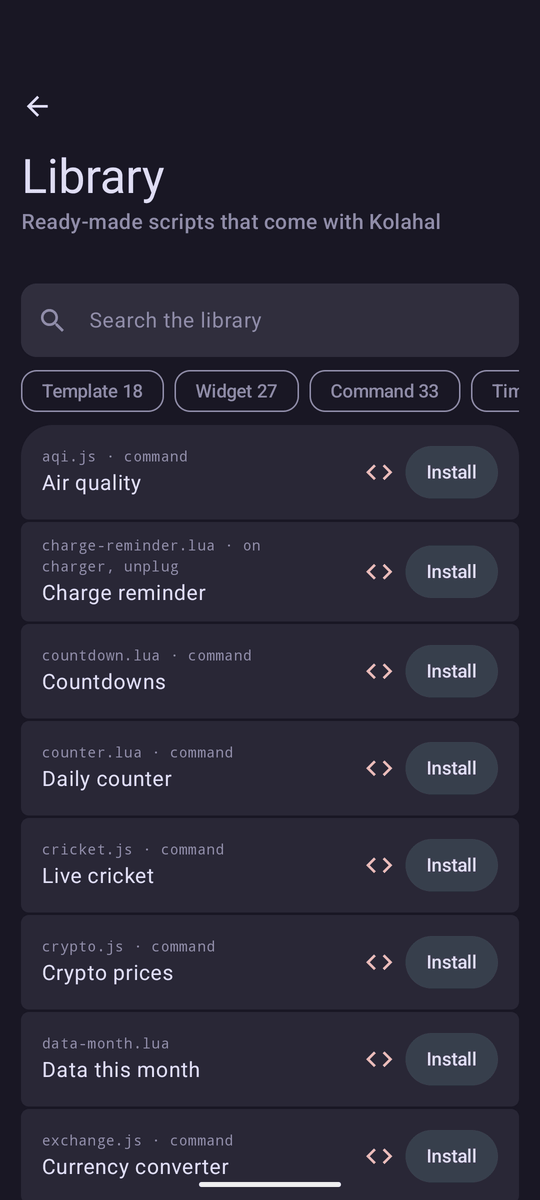
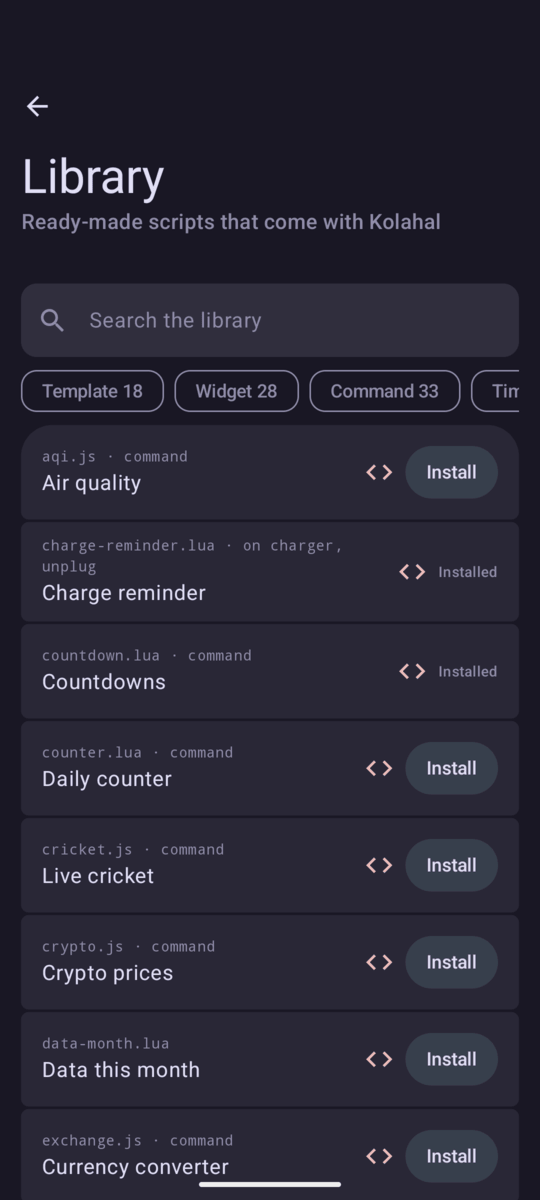
Guide: pictures taken again for the Shaders tab, and the capture script's steps for them
Settings, the Shaders list, the Scripts tab and the three access pictures show the four tabs; the setup checklist has its fourteenth row; the library and a script's sheet show today's counts and versions; the agenda's Now card and the Todos Next card are drawn as they are now. Alt texts, the marks on the Settings picture and the capture list follow.

The capture script's tap on the Scripts tab fell between two tabs once there were four. It gains steps for the library, one-offs in mid-play, a one-off over another app and the daily limits page.

diff --git a/site/src/gallery.ts b/site/src/gallery.ts
@@ -32,7 +32,7 @@ export const PICTURES: Picture[] = [
 	{ section: 'home', file: 'parts/typing.png', caption: 'While you type', alt: 'Typing ma at the prompt: the header, the log, the suggestion list with Maps highlighted at the bottom, the prompt and the key bar', href: '/getting-started/parts/#while-you-type' },
 	{ section: 'home', file: 'parts/action-sheet.png', caption: 'A line’s action sheet', alt: 'The action sheet for a to-do line: the line, when it arrived, its actions and two delete actions in red', href: '/getting-started/parts/#action-sheet-and-quick-actions' },
 	{ section: 'home', file: 'parts/quick-actions.png', caption: 'Quick actions', alt: 'Quick actions: Settings, Notifications, Alarms and clock, Battery, Network, Unlocks this week, Apps, Widgets, Widgets page, Feeds, Scripts and Lock screen', href: '/getting-started/parts/#action-sheet-and-quick-actions' },
-	{ section: 'home', file: 'setup.png', caption: 'The setup checklist', alt: 'The setup checklist, 7 of 13 done: default home app, usage access, notifications, notification access and Do Not Disturb access done; double-tap to lock, system settings and contacts with Fix buttons', href: '/getting-started/setup/#the-setup-checklist' },
+	{ section: 'home', file: 'setup.png', caption: 'The setup checklist', alt: 'The setup checklist, 7 of 14 done: default home app, usage access, notifications, notification access and Do Not Disturb access done; double-tap to lock, system settings and contacts with Fix buttons', href: '/getting-started/setup/#the-setup-checklist' },
 
 	// The app selector
 	{ section: 'selector', file: 'shots/selector/slide.png', caption: 'At G on the edge', alt: 'The thumb on the right edge at G: the list of apps over the log, the apps at G magnified, and the G bubble beside the thumb', href: '/getting-started/basics/#app-selector' },
@@ -93,10 +93,10 @@ export const PICTURES: Picture[] = [
 	{ section: 'widgets', file: 'widgets/todos-2x2.png', caption: 'Todos', alt: 'The Todos card: three open todos, each with an empty checkbox, and +2 more', href: '/guides/widgets/#kolahals-own-widgets' },
 	{ section: 'widgets', file: 'widgets/reminders-2x2.png', caption: 'Reminders', alt: 'The Reminders card: 42 min to the next one, Call the bank, then Water plants on Wednesday and +1 more', href: '/guides/widgets/#kolahals-own-widgets' },
 	{ section: 'widgets', file: 'widgets/agenda-4x2.png', caption: 'Agenda', alt: 'The Agenda card: two events today and one all-day event tomorrow', href: '/guides/widgets/#kolahals-own-widgets' },
-	{ section: 'widgets', file: 'widgets/todos-next-4x2.png', caption: 'Todos, Next', alt: 'Todos in the Next look: Book the dentist large with a check to tap, a ring at 3/7, and the next todo as a row under it', href: '/guides/widgets/#looks' },
+	{ section: 'widgets', file: 'widgets/todos-next-4x2.png', caption: 'Todos, Next', alt: 'Todos in the Next look: Book the dentist large with a check to tap, a ring at 3/7, and the todos after it as rows under it', href: '/guides/widgets/#looks' },
 	{ section: 'widgets', file: 'widgets/reminders-next-2x2.png', caption: 'Reminders, Next', alt: 'Reminders in the Next look: in 42 min in a pill for Call the bank, then the later reminders as points on a line', href: '/guides/widgets/#looks' },
 	{ section: 'widgets', file: 'widgets/notes-stack-2x2.png', caption: 'Notes, Stack', alt: 'Notes in the Stack look: the newest note on a stack of sheets, 3 notes, and + for a new note', href: '/guides/widgets/#looks' },
-	{ section: 'widgets', file: 'widgets/now-kind-agenda-now-4x1.png', caption: 'Agenda, Now', alt: 'The agenda in the Now look: Team call now with a bar that fills as it goes, free 1h 30, and Lunch next', href: '/guides/widgets/#looks' },
+	{ section: 'widgets', file: 'widgets/now-kind-agenda-now-4x1.png', caption: 'Agenda, Now', alt: 'The agenda in the Now look: Team call now with a bar that fills as it goes, free 1 h 30 min, and Lunch next', href: '/guides/widgets/#looks' },
 	{ section: 'widgets', file: 'widgets/poster-kind-poster-clock-2x2.png', caption: 'Poster', alt: 'A clock in the Poster look: the hour and the minutes so large that the card crops them', href: '/guides/widgets/#looks' },
 	{ section: 'widgets', file: 'widgets/poster-kind-poster-stat-2x1.png', caption: 'Poster', alt: 'A number in the Poster look: 118 cropped by the card’s bottom edge, with AQI small in the corner', href: '/guides/widgets/#looks' },
 	{ section: 'widgets', file: 'widgets/shape-kind-dots-week-2x2.png', caption: 'A week as a flower', alt: 'The habit’s week in the Shape look: a flower with a leaf for each day done this week', href: '/guides/widgets/#looks' },
@@ -124,7 +124,7 @@ export const PICTURES: Picture[] = [
 	// Scripts and the editor
 	{ section: 'scripts', file: 'shots/access/cards.png', caption: 'The script manager', alt: 'The script manager: a card for each script, with its file name, how it runs, a Run button and a switch', href: '/getting-started/parts/#scripts-tab' },
 	{ section: 'scripts', file: 'shots/access/switches.png', caption: 'A script’s sheet', alt: 'The weather script’s sheet: run, options, edit and share buttons, then Access with a switch for the internet and one for Pinned at the top, its options and its timer', href: '/scripting/overview/#what-a-script-may-use' },
-	{ section: 'scripts', file: 'shots/access/library.png', caption: 'The library', alt: 'The library: a search box, chips for templates, widgets and commands, and each script with what it is, a code button and Install', href: '/scripting/library/' },
+	{ section: 'scripts', file: 'shots/access/library.png', caption: 'The library', alt: 'The library: a search box, chips for templates, widgets and commands, and each script with what it is, a code button and Install, or Installed for the ones you have', href: '/scripting/library/' },
 	{ section: 'scripts', file: 'shots/scripts/editor.png', caption: 'The editor', alt: 'The script editor on unlock-chart.lua: line numbers, colored Lua and the symbol bar', href: '/scripting/editor/' },
 	{ section: 'scripts', file: 'shots/scripts/weather.png', caption: 'A script as a command', alt: 'The weather script’s answer in the log: Tokyo, 16 °C and moderate rain, humidity, wind and UV', href: '/scripting/overview/#command-scripts' },
 	{ section: 'scripts', file: 'shots/scripts/forecast.png', caption: 'forecast lisbon', alt: 'The forecast script’s answer: three days in Lisbon, each with its low and its high', href: '/scripting/library/' },
@@ -156,7 +156,7 @@ export const PICTURES: Picture[] = [
 	{ section: 'scripts', file: 'widgets/example-sky-2x2.png', caption: 'The sky', alt: 'A 2×2 sky card in the Shape look: the sun on its arc, and the time of sunset', href: '/scripting/api/#kinds-and-their-fields' },
 
 	// Shaders: captures, then the scenes as the shader files draw them
-	{ section: 'shaders', file: 'shots/shaders/list.png', caption: 'Shaders', alt: 'Settings, Shaders, searched for screen time: Record, Candle and Hourglass, each with what it draws', href: '/scripting/shaders/#turning-a-shader-on' },
+	{ section: 'shaders', file: 'shots/shaders/list.png', caption: 'Shaders', alt: 'The Shaders tab, searched for screen time: Record, Candle and Hourglass, each with what it draws, and the Add shader button', href: '/scripting/shaders/#turning-a-shader-on' },
 	{ section: 'shaders', file: 'shots/shader-parameters/sliders.png', caption: 'A shader’s details', alt: 'The details of the mountains shader: its preview, what it draws, and a slider for the number of birds', href: '/scripting/shaders/#turning-a-shader-on' },
 	{ section: 'shaders', file: 'shots/shader-parameters/follow.png', caption: 'A parameter that follows a value', alt: 'The details of the candle shader: its parameter following screen time, today against a usual day', href: '/scripting/shaders/#values-to-follow' },
 	{ section: 'shaders', file: 'shots/shaders/lanterns.png', caption: 'shader lanterns', alt: 'Home over the lanterns scene, a lantern for each day’s unlocks over dark water', href: '/scripting/shaders/#turning-a-shader-on' },
@@ -172,9 +172,9 @@ export const PICTURES: Picture[] = [
 	{ section: 'shaders', file: 'scenes/candle.webp', caption: 'shader candle', alt: 'A lit candle in a brass dish on a dark table', href: '/scripting/shaders/#turning-a-shader-on' },
 
 	// Themes and settings
-	{ section: 'themes', file: 'shots/themes/settings.png', caption: 'Settings', alt: 'Settings: the Settings, Scripts and Feeds tabs, a search box, and the pages Look and feel, Shaders, Header, Widgets, Log, Suggestions, Keyboard and App selector', href: '/guides/themes-and-settings/#settings-screen' },
+	{ section: 'themes', file: 'shots/themes/settings.png', caption: 'Settings', alt: 'Settings: the Settings, Scripts, Shaders and Feeds tabs, a search box, and the pages Look and feel, Header, Widgets, Log, Suggestions, Keyboard, App selector and Launching and search', href: '/guides/themes-and-settings/#settings-screen' },
 	{ section: 'themes', file: 'shots/themes/theme-picker.png', caption: 'Choosing a theme', alt: 'Look and feel: the theme picker with a card for each theme, Always dark, and the fonts', href: '/guides/themes-and-settings/#themes' },
-	{ section: 'themes', file: 'parts/settings.png', caption: 'Settings', alt: 'The Settings screen: Settings, Scripts and Feeds tabs, a search box and the pages Look and feel, Shaders, Header, Widgets, Log, Suggestions, Keyboard and App selector', href: '/getting-started/parts/#settings' },
+	{ section: 'themes', file: 'parts/settings.png', caption: 'Settings', alt: 'The Settings screen: Settings, Scripts, Shaders and Feeds tabs, a search box and the pages Look and feel, Header, Widgets, Log, Suggestions, Keyboard, App selector and Launching and search', href: '/getting-started/parts/#settings' },
 
 	// Work profile and private space
 	{ section: 'profiles', file: 'shots/profiles/resume.png', caption: 'Opening an app of a paused profile', alt: 'A faded work app tapped while the work profile is paused, and Kolahal asking Resume work apps?', href: '/guides/profiles/#pausing-and-resuming' },

diff --git a/site/CAPTURES.md b/site/CAPTURES.md
@@ -42,6 +42,9 @@ were taken again on 25 November 2026, after the widgets' settings pages, pages a
 came in, with `ZONE=America/Argentina/Buenos_Aires` and the clocks in `Asia/Dhaka` (Lisbon then on
 the day before: "−1"). In Arrange widgets the script finds a button by what it says (`tap_ui`,
 through uiautomator): the Look row offers only the looks that change the card, so its buttons move.
+Settings (its four tabs since Shaders became one), the Scripts tab, the script manager, the library,
+the Shaders tab, weather.lua's sheet and the setup checklist were taken again on the evening of 25
+November 2026, in `Asia/Dhaka`.
 
 ## The hero's phone (home page)
 
@@ -83,7 +86,8 @@ through uiautomator): the Look row offers only the looks that change the card, s
 | `shots/scripts/editor.png` | the editor | (Play captures) | `editor-script` |
 | `shots/scripts/forecast.png` | `forecast lisbon` | `forecast` | `scripts-forecast` |
 | `shots/access/switches.png` | weather.lua's sheet: its switches and its city | `play_sheets` | `script-sheet-switches` |
-| `shots/access/library.png`, `cards.png` | the library, the script manager | (Play captures) | `library`, `scripts-list` |
+| `shots/access/library.png` | the library: its chips with their counts, setup's scripts Installed | `library` | `library` |
+| `shots/access/cards.png` | the Scripts tab as it opens: a card for each of setup's scripts | `parts_scripts` | `scripts-list` |
 | `shots/schedule/times.png` | night-dnd's sheet: Runs every, Daily at 07:00, 23:00 | `schedule_times` | `schedule-times` |
 | `shots/schedule/charger.png` | charge-reminder on unplugging: 62%, +12%, a bar | `schedule_charger` | `schedule-charger` |
 | `shots/pinning/pin.png` | weather's action sheet with *Pin weather to the top* | `pinning` | `pinning-pin` |
@@ -102,7 +106,9 @@ through uiautomator): the Look row offers only the looks that change the card, s
 | `shots/usage/limits.png` | a daily limit of 10 unlocks: the header's unlocks and `unlocks 7` in the warning color | `limits` | `limits-unlocks` |
 | `shots/shaders/candle.png`, `lanterns.png`, `hourglass.png` | three scenes behind home | `play_scenes` | `scene-*` |
 | `shots/shader-parameters/follow.png`, `sliders.png` | Candle's and Mountains' details | `play_sheets` | `shader-details-follows`, `-slider` |
-| `shots/shaders/list.png`, `shots/themes/*` | the list of shaders, Settings | (Play captures) | `shaders-list`, `settings`, `theme-picker` |
+| `shots/shaders/list.png` | the Shaders tab, searched for screen time: Record, Candle, Hourglass, Add shader | `play_sheets` | `shaders-list` |
+| `shots/themes/settings.png` | Settings: its four tabs and the first pages | `parts_settings` | `parts-settings` |
+| `shots/themes/theme-picker.png` | Look & feel's theme picker | (Play captures) | `theme-picker` |
 | `shots/wallpaper/preview.png` | Android's wallpaper preview with `pond` | `wallpaper` | `wallpaper-preview` |
 | `shots/wallpaper/lock.png` | the lock screen with `pond` behind the clock | `wallpaper` | `wallpaper-lock` |
 | `shots/wallpaper/log.png` | the log with the pond through it (`log.wallpaper 60`) | `wallpaper` | `wallpaper-log` |
@@ -124,10 +130,10 @@ the `parts/` pictures: after taking one again, check each mark still sits on wha
 | `parts/action-sheet.png` | the todo line's action sheet | `parts_action_sheet` | `action-sheet-todo` |
 | `parts/quick-actions.png` | quick actions | `parts_quick_actions` | `quick-actions` |
 | `parts/widgets-page.png` | the widgets page | `tools/site-pictures.sh` (`WidgetGalleryTest#thePageIsDrawnAndSaved`) | |
-| `parts/settings.png` | Settings | `parts_settings` | `parts-settings` |
+| `parts/settings.png` | Settings: the tabs Settings, Scripts, Shaders and Feeds, the search, the pages | `parts_settings` | `parts-settings` |
 | `parts/scripts-tab.png` | the Scripts tab: Countdowns' details open, Focus off | `parts_scripts` | `parts-scripts` |
 | `parts/editor.png` | the editor with the symbol bar | `parts_editor` | `parts-editor` |
-| `setup.png` | the setup checklist | `setup_checklist` | `setup` |
+| `setup.png` | the setup checklist, 7 of 14 done (the full build) | `setup_checklist` | `setup` |
 | `app-grid.png` | `apps` over a short log: personal and work apps in three columns, a count in each heading, "+8 more" | `profiles` | `app-grid` |
 | `terminal-feeds.png` | countdown pinned, the feed list and a conversion | `terminal_feeds` | `terminal-feeds` |
 
@@ -143,7 +149,10 @@ test's own cards in one look: a site file named `widgets/<look>-<card>-<size>.pn
 (`bold-kind-gauge-2x2.png`) makes the script draw that card in that look
 (`WidgetGalleryTest#everyLookIsDrawnAndSaved`, `looks` and `names`) and copy it over. Drawn with
 `ZONE=Pacific/Pitcairn` on 25 November 2026, in the afternoon there, so the sky and the clocks read
-as by day; the places on the cards keep their own time.
+as by day; the places on the cards keep their own time. `todos-next-4x2.png` and
+`now-kind-agenda-now-4x1.png` were drawn again that evening in `Africa/Johannesburg` (the afternoon
+there), after the Todos card's Next look and the Now look's lengths ("1 h 30 min") changed; the run
+drew every card, and only those two were kept.
 
 | Files | What they show | Test |
 | --- | --- | --- |
@@ -167,3 +176,7 @@ suggestions bar" off (`gboard_chip`), `restore` on again.
 | `typing-tty-parts`, `typing-gui-parts` | `ca` typed over the same log with the suggestions and the key bar: the TTY style with every part on the grid (`tty.suggestions`, `tty.selector`, `tty.keybar`, `tty.quick-actions`, `tty.menu` set to `tty`), then the default style | `typing_styles` |
 | `reference-table-tty` | the editor's reference, Log lines → `fmt.table`, its Home style set to TTY | `reference_tty` |
 | `app-grid-more` | `apps` as in `app-grid.png`, after a tap on the personal group's "+8 more": the whole group and "Show less" | `profiles` |
+| `shaders-list` | the Shaders tab (as `shots/shaders/list.png`), beside the editor | `play_sheets` |
+| `oneoff-hearts-fountain`, `oneoff-pulse` | one-offs in mid-play over home: the hearts fanning up over the log; the light partway up the edges | `one_offs` |
+| `shaders-over-apps`, `oneoff-over-app` | the Shaders tab at its one-offs with Play over other apps on; `hearts` over Clock's stopwatch after a notification with its word | `over_apps` |
+| `daily-limits` | Settings → Header at Daily limits: 180 minutes of screen time, 60 unlocks | `daily_limits` |
